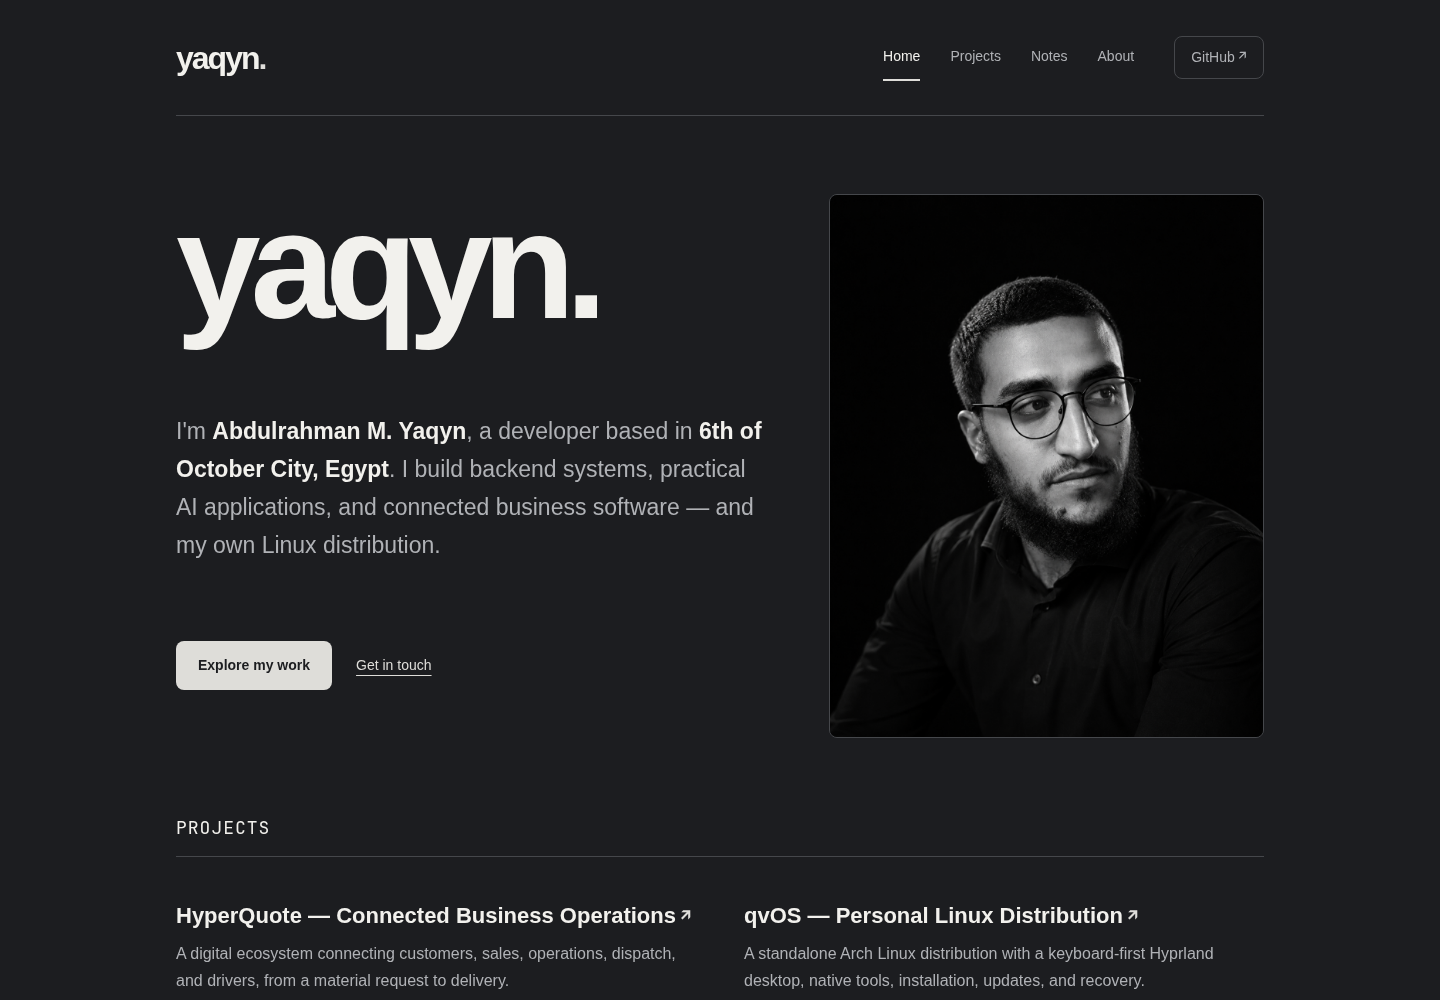
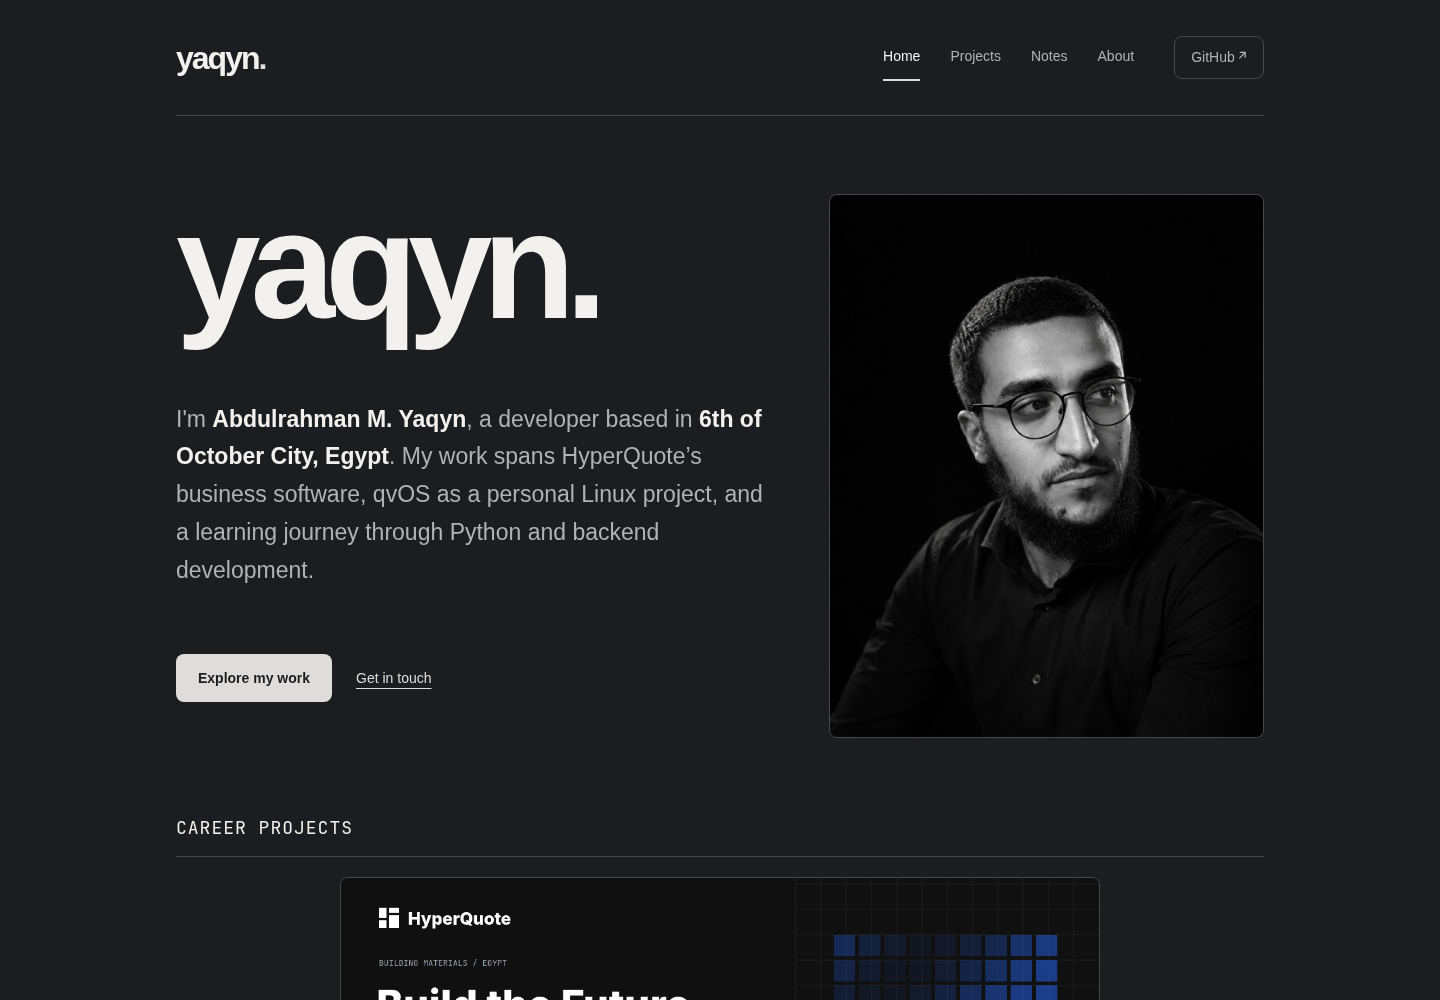
Reflect project categories in the portfolio documentation

diff --git a/README.md b/README.md
@@ -2,18 +2,39 @@
 
 # Folio — Personal Site & Generator
 
+> **Learning Journey Projects · Boot.dev**
+> A student project developed through the Boot.dev curriculum and extended through hands-on practice.
+
 **Abdulrahman M. Yaqyn's projects and development notes, powered by a small Python static site generator.**
 
-A graphite and charcoal theme, the author’s original black-and-white portrait, and personal content drawn from the [GitHub profile README](https://github.com/yaqyn/yaqyn). All eight projects appear on the homepage and Projects page with their current names and repository links. The site includes projects, about, contact, notes, and a custom 404 page.
+A graphite and charcoal theme, the author’s original black-and-white portrait, and personal content drawn from the [GitHub profile README](https://github.com/yaqyn/yaqyn). Career Projects (HyperQuote), Personal Projects (qvOS), and Learning Journey Projects (the six Boot.dev student projects) have separate sections on the homepage and Projects page. The site includes projects, about, contact, notes, and a custom 404 page.
 
 [Visit the published site](https://yaqyn.github.io/folio-static-site/) · [Design context](DESIGN.md)
 
 ## <img src="readme-assets/project.svg" width="24" height="24" alt=""> Projects
 
+### Career Projects
+
+![HyperQuote — Build the Future, Faster.](static/images/hyperquote-cover.gif)
+
 | Project | Purpose |
 | --- | --- |
 | [HyperQuote](https://github.com/yaqyn/HyperQuote) | Connected Business Operations |
+
+### Personal Projects
+
+![qvOS — Personal Linux Distribution](static/images/qvos-cover.gif)
+
+| Project | Purpose |
+| --- | --- |
 | [qvOS](https://github.com/yaqyn/qvOS) | Personal Linux Distribution |
+
+### Learning Journey Projects
+
+Student projects developed through the Boot.dev curriculum.
+
+| Project | Purpose |
+| --- | --- |
 | [Workbench](https://github.com/yaqyn/workbench-ai-agent) | AI Coding Agent |
 | [CineSearch](https://github.com/yaqyn/cinesearch-rag-engine) | Movie RAG Engine |
 | [SiteLens](https://github.com/yaqyn/sitelens-web-crawler) | Web Crawler |
